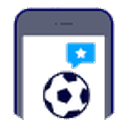
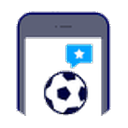
Le icone del menu: stessa grandezza, come quelle della barra
Stesso difetto della barra in basso, piu' sottile. Le dodici icone del pannello
laterale erano disegnate sulla stessa tela da 128 ma con inchiostri molto
diversi: squadre 112x74, voti 113x113. In grandezza ottica — la media
geometrica di base e altezza, che e' quella che l'occhio legge come "peso" —
si andava da 91 a 113: il 21% fra la piu' leggera e la piu' pesante. Nel
pannello si vedeva: il gruppetto dei Partecipanti sembrava piccolo accanto alla
calcolatrice dei Voti, e la coppa del Profilo lega sovrastava tutto.

Ora tutte a 100, scarto peggiore 0,3%. Il rapporto fra base e altezza non si
tocca: le frecce del Mercato restano larghe e la coppa resta alta, ma pesano
uguale. E' cosi' che si normalizza un set di icone: non riquadri identici,
peso identico.

scripts/normalizza-icone-nav.py diventa scripts/normalizza-icone.py e lavora a
gruppi:

    python3 scripts/normalizza-icone.py            tutti
    python3 scripts/normalizza-icone.py menu       solo quello
    python3 scripts/normalizza-icone.py --prova    i numeri, senza scrivere

Per la barra i cinque nomi sono scritti a mano: nella cartella nav ci sono
anche dieci disegni avanzati da un set precedente che non usa nessuno — mask()
viene chiamata in un punto solo — e al primo giro lo script se li era presi
tutti. Per il menu invece servono tutti e dodici.

Il lato massimo del menu passa da 118 a 122 perche' squadre e' larga e bassa:
con 118 restava indietro del 3,4%, con 122 arriva a 0,6% e tiene comunque tre
[…]

Changed region(s): [[0.0938, 0.0312, 0.9062, 0.9375], [0.4062, 0.1562, 0.5625, 0.2188]]

diff --git a/sw.js b/sw.js
@@ -1,5 +1,5 @@
 /* Service worker — shell in cache, aggiornamento in background. */
-const VERSION = 'fcs-v4.2.22';
+const VERSION = 'fcs-v4.2.23';
 const SHELL = [
   './', './index.html', './manifest.webmanifest', './styles/app.css', './styles/logo.css', './styles/font.css', './design/tokens/tokens.css',
   // I caratteri stanno in casa: nella cache ci vanno, se no senza rete si vede
@@ -23,9 +23,6 @@ const SHELL = [
   './media/sfondo-accesso.jpg',
   // La maglia sta in copertina: e' la prima immagine della dashboard.
   './media/maglia-base.webp', './media/sfondo-home.jpg',
-  // Sfondo della schermata d'accesso: è la prima cosa che si vede.
-  // La maglia sta in copertina: e' la prima immagine della dashboard.
-  
 ];
 /**
  * Il guscio si riscarica dalla RETE, non dalla cache del browser.

diff --git a/scripts/normalizza-icone.py b/scripts/normalizza-icone.py
@@ -1,0 +1,103 @@
+#!/usr/bin/env python3
+"""Porta le icone di un gruppo alla stessa grandezza ottica.
+
+Il difetto sta nei file, non nel CSS: dentro uno stesso gruppo le icone erano
+disegnate con inchiostri molto diversi sulla stessa tela, e sullo schermo una
+veniva grande il doppio dell'altra. Nella barra in basso il calendario era
+disegnato a META' SCALA degli altri — inchiostro 64x62 contro i 112x108 della
+coppa — e un artefatto da sette pixel sul bordo destro faceva credere il
+contrario a chi misurava il riquadro alpha senza soglia.
+
+Ogni icona viene ritagliata sull'inchiostro vero, riscalata perche' la sua
+dimensione ottica (media geometrica di base e altezza) sia la stessa per tutte
+quelle del gruppo, e rimessa al centro della tela. Il rapporto fra base e
+altezza NON si tocca: un campo resta largo e una coppa resta alta, ma pesano
+uguale. E' il modo in cui si normalizza un set di icone: non riquadri identici,
+peso identico.
+
+    python3 scripts/normalizza-icone.py            tutti i gruppi
+    python3 scripts/normalizza-icone.py menu       solo quello
+    python3 scripts/normalizza-icone.py --prova    i numeri, senza scrivere
+
+Rilanciarlo non fa danni: su icone gia' normalizzate i numeri non cambiano.
+Gli originali restano comunque nella storia di git.
+"""
+import sys, math
+from pathlib import Path
+from PIL import Image
+import numpy as np
+
+RADICE = Path(__file__).resolve().parent.parent / 'media' / 'icone'
+TELA = 128
+
+# Il lato massimo e' diverso fra i gruppi perche' e' diverso il margine con cui
+# sono stati disegnati. Va tenuto fermo: cambiarlo rimescola icone gia' a posto.
+#
+# `icone` elenca quali toccare. Per la barra in basso e' scritto a mano: nella
+# cartella ci sono anche dieci disegni avanzati da un set precedente che non usa
+# nessuno (mask() viene chiamata in un punto solo, con questi cinque nomi), e
+# ritoccarli sarebbe rumore. Per il menu invece servono tutti.
+GRUPPI = {
+    'nav':  {'ottica': 100.0, 'max_lato': 112,
+             'icone': ['campo', 'maglia-10', 'calendario', 'coppa', 'grafico']},
+    'menu': {'ottica': 100.0, 'max_lato': 122, 'icone': None},
+}
+
+def riquadro(alpha, soglia=40, minimo=8):
+    """Il riquadro dell'inchiostro che si vede davvero.
+
+    `minimo` pixel per riga e per colonna: senza, una traccia sperduta di sette
+    pixel sul bordo del calendario allargava la misura da 64 a 112 e faceva
+    sembrare l'icona grande il doppio di quello che era.
+    """
+    m = np.array(alpha) > soglia
+    xs = np.where(m.sum(axis=0) >= minimo)[0]
+    ys = np.where(m.sum(axis=1) >= minimo)[0]
+    if not len(xs) or not len(ys):
+        raise ValueError('icona senza inchiostro')
+    return int(xs[0]), int(ys[0]), int(xs[-1]) + 1, int(ys[-1]) + 1
+
+def normalizza(percorso, ottica, max_lato, prova):
+    im = Image.open(percorso).convert('RGBA')
+    x0, y0, x1, y1 = riquadro(im.split()[3])
+    ink = im.crop((x0, y0, x1, y1))
+    w, h = ink.size
+    k = min(ottica / math.sqrt(w * h), max_lato / w, max_lato / h)
+    nw, nh = max(1, round(w * k)), max(1, round(h * k))
+    # Gia' a posto: non la si tocca. Il ritocco costerebbe una ricampionatura
+    # in piu' per niente, e un pixel sfumato che al secondo giro supera la
+    # soglia basterebbe a far ripartire il giro all'infinito.
+    centrata = (abs(x0 - (TELA - w) // 2) <= 1 and abs(y0 - (TELA - h) // 2) <= 1)
+    if abs(k - 1) < 0.005 and (nw, nh) == (w, h) and centrata:
+        return (w, h), (nw, nh)
+    tela = Image.new('RGBA', (TELA, TELA), (0, 0, 0, 0))
+    tela.paste(ink.resize((nw, nh), Image.LANCZOS), ((TELA - nw) // 2, (TELA - nh) // 2))
+    if not prova:
+        tela.save(percorso)
+    return (w, h), (nw, nh)
+
+def main():
+    voci = [a for a in sys.argv[1:] if not a.startswith('-')]
+    prova = '--prova' in sys.argv
+    gruppi = voci or list(GRUPPI)
+    for g in gruppi:
+        if g not in GRUPPI:
+            print(f'gruppo sconosciuto: {g} (ce ne sono {", ".join(GRUPPI)})'); continue
+        cfg = GRUPPI[g]
+        print(f'\n--- {g} (ottica {cfg["ottica"]:.0f}, lato max {cfg["max_lato"]}) ---')
+        print(f'  {"icona":22} {"prima":>11} {"dopo":>11}   scarto')
+        esiti = []
+        cartella = RADICE / g
+        file = ([cartella / f'{n}.png' for n in cfg['icone']] if cfg['icone']
+                else sorted(cartella.glob('*.png')))
+        for p in file:
+            (w, h), (nw, nh) = normalizza(p, cfg['ottica'], cfg['max_lato'], prova)
+            o = math.sqrt(nw * nh)
+            esiti.append(o)
+            print(f'  {p.stem:22} {w:4}x{h:<6} {nw:4}x{nh:<6}   {100*(o/cfg["ottica"]-1):+5.1f}%')
+        peggio = max(abs(o / cfg['ottica'] - 1) for o in esiti)
+        print(f'  scarto peggiore dal bersaglio: {peggio*100:.1f}%')
+    print('\nprova: niente e\' stato scritto.' if prova else '\nscritte.')
+
+if __name__ == '__main__':
+    main()
